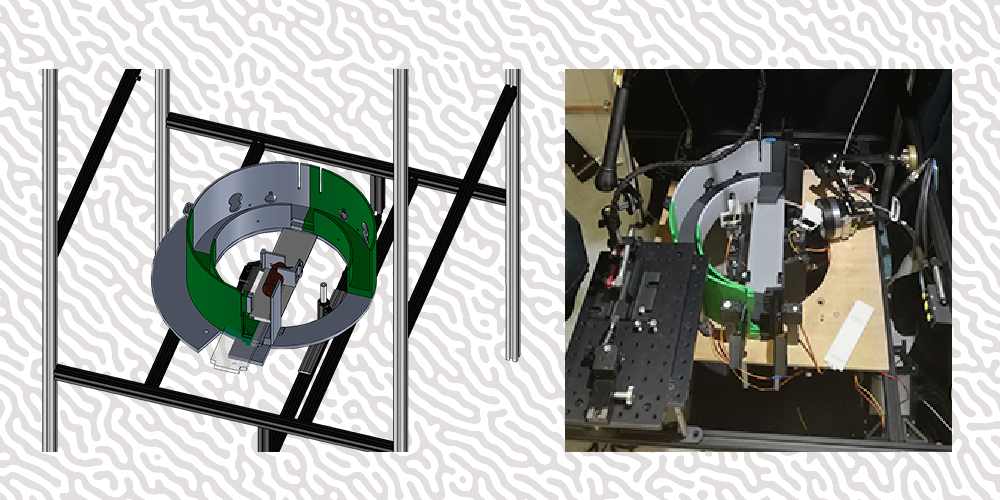
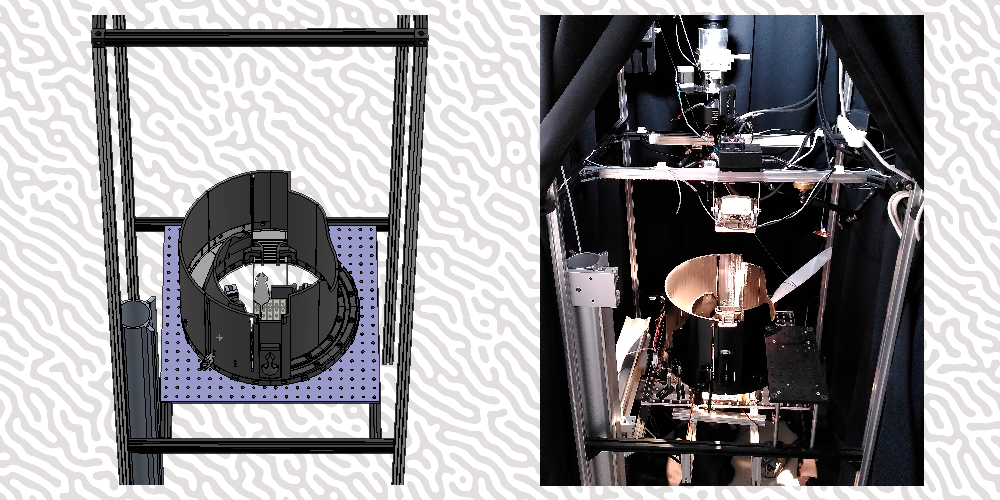
changes maze

diff --git a/labprojects/automated_behavior_arena/main.md b/labprojects/automated_behavior_arena/main.md
@@ -6,11 +6,26 @@ Using actuators and sensors controlled with custom electronic hardware, and a cu
 
 To perform locomotion and tactile discrimination tasks, we developed and automated modular arena, that allows us to display various tactile stimuli and obstacles, and set their position automatically to train models to respond or interact depending on them.
 
-<img src="IMG_20200201_175419.jpg.png" alt="Schema and photo maze" style="max-width:100%;" />
+In the second version of this arena, I made the outer circular corridors 8 identical modules that can be replaced easily to adapt with the evolution of the experimental design.
+
+<p float="right" align="center">
+  <img src="main.assets/baseplate.jpg" width="40%" />
+  <img src="main.assets/wall_modules.jpg" width="40%" /> 
+</p>
 
 
+
+
+
+<img src="main.assets/model_top.PNG" alt="model_top" style="zoom:50%;" />
 
 The central alley is transparent and thus, allows us to record high speed videography of models trajectories and whisker contacts, as displayed below, for two different types of tasks. 
+
+<img src="main.assets/model_front.PNG" alt="model_front" style="zoom:85%;" />
+
+
+
+
 
 On the left, it is an orientation discrimination task, with two sets of orientation possible, and a reward available after the stimulation, either on the right or left based on the stimuli.
 
@@ -18,7 +33,7 @@ On the right, it is an obstacle avoidance task, with two sets of "walls" that ca
 
 
 
-<img src="Animation_mousepath_obstacles.gif" alt="Animation_mousepath_obstacles" style="max-width:80%;" />
+<img src="Animation_maze.gif" alt="Animation_maze" style="max-width:80%;" />
 
 The full automation of the tasks in the arena allows us to obtain better characterized and repeatable behaviors.
 
